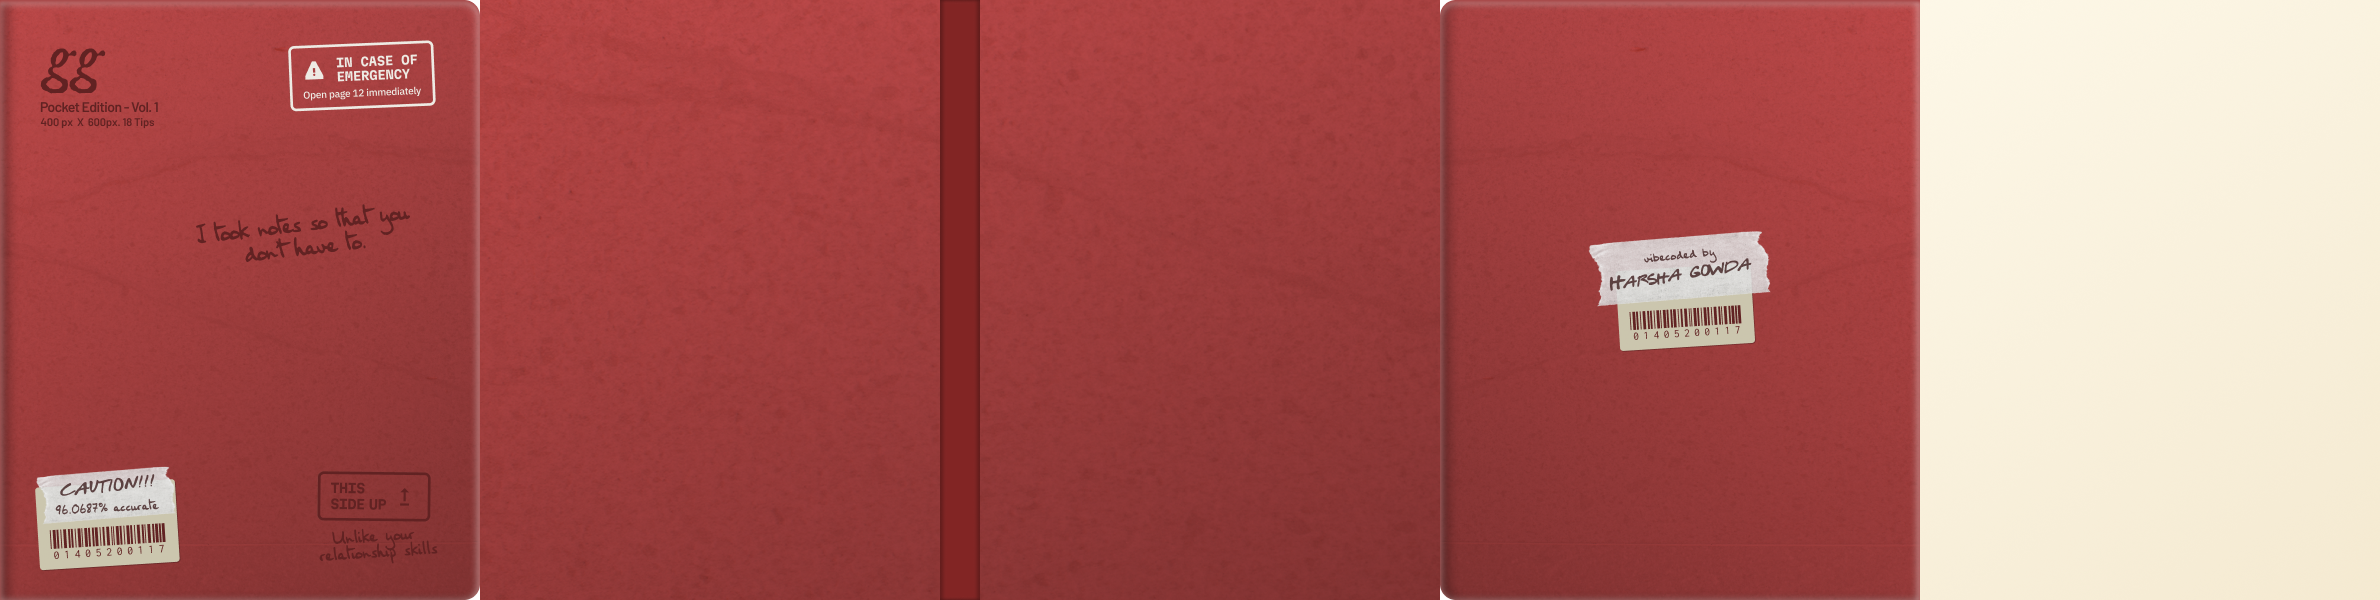
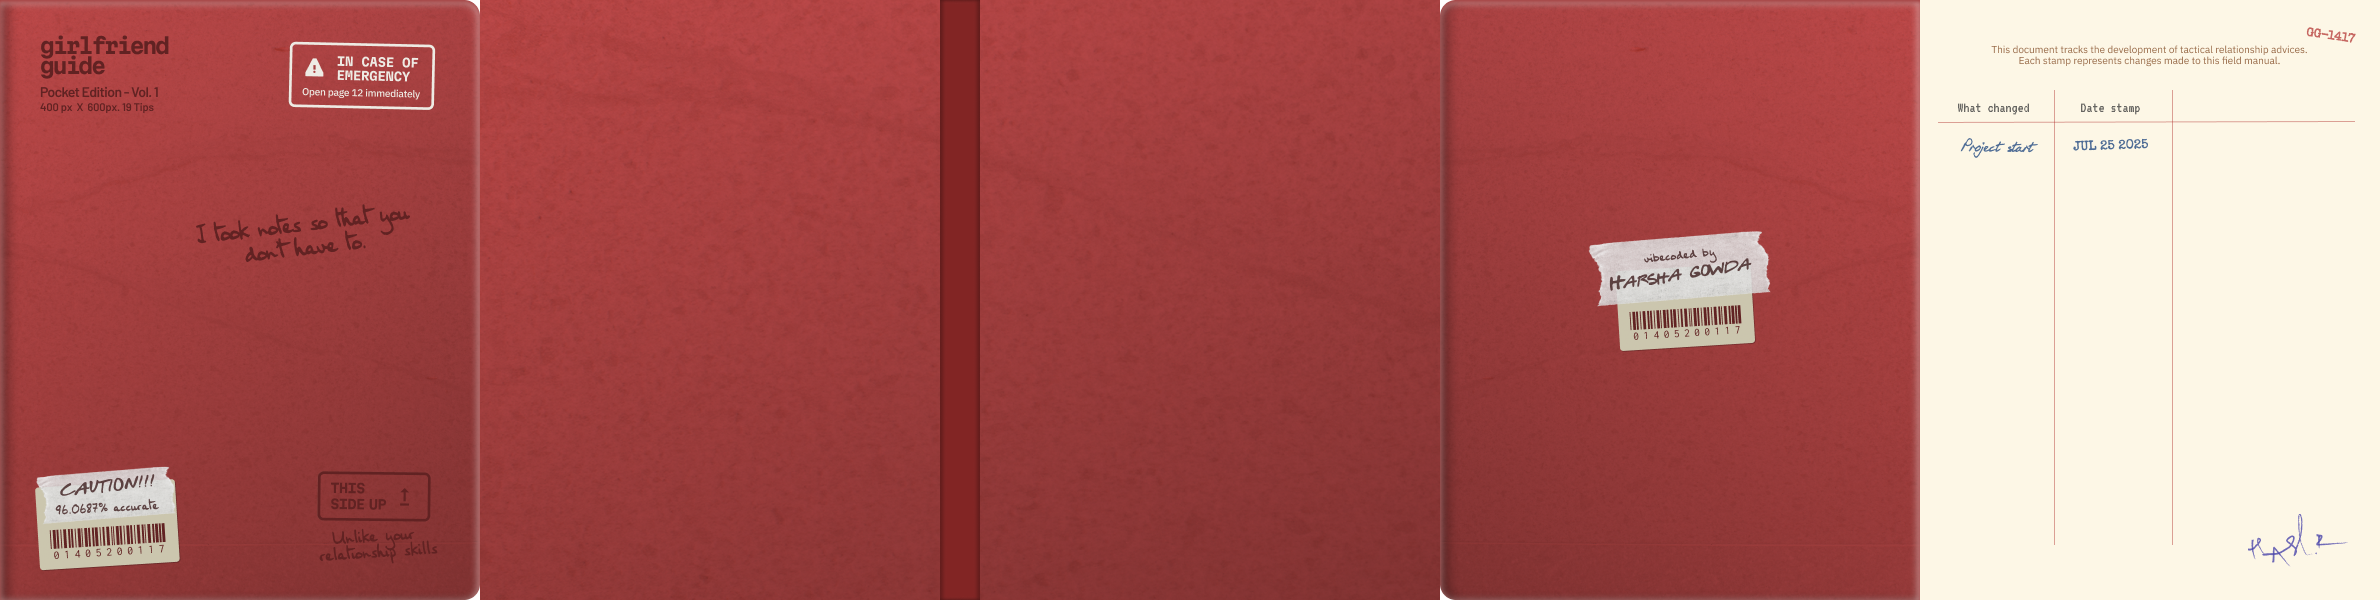
Completed 97%

diff --git a/samples/girlfriend-guide/pages/page33.html b/samples/girlfriend-guide/pages/page33.html
@@ -1,0 +1,28 @@
+<div class="book-content" style="position: relative;">
+
+    
+    <div style="font-family: 'QEJohnWilliams', serif; font-size: 15px; color: #4A45AA; line-height: 1.4; text-align: left; margin-top: 10px; padding: 0 10px;">
+        <p style="margin-bottom: 20px;">
+            Whether you got caught at the Coldplay concert with another girl, or used her face cream on your feet, or called her best friend by your ex's name… whether you booked a boys' trip during her birthday week, asked if she's overreacting while she's PMSing, or brought up her 'funny voice' mid-fight <br>
+        I got you, bro. I've prepared a checklist you're going to need very, very badly.
+        </p>
+        
+        <div style="margin: 30px 0;">
+            <div style="font-family: 'QEJohnWilliams', serif; font-size: 15px; color: #4A45AA; line-height: 1.4;">
+                <div style="margin-bottom: 4px;">☐ Book a one-way flight to a non-extradition country</div>
+                <div style="margin-bottom: 4px;">☐ Convert all assets to untraceable cryptocurrency</div>
+                <div style="margin-bottom: 4px;">☐ Pack light, move fast</div>
+                <div style="margin-bottom: 4px;">☐ Send mom one last voice note — she deserves to know you loved her</div>
+            </div>
+        </div>
+        
+        <div style="text-align: left; margin-top: 20px;">
+            <p style="font-family: 'QEJohnWilliams', serif; font-size: 14px; color: #4A45AA; margin-bottom: 10px;">
+                Good luck, soldier. <br>
+                It's been an honor serving you.
+            </p>
+        </div>
+    </div>
+</div>
+
+<span class="page-number" style="font-family: 'QEAntonyLark', serif; font-size: 20px; color: #807dba;">33</span>

diff --git a/samples/girlfriend-guide/pages/page31.html b/samples/girlfriend-guide/pages/page31.html
@@ -10,4 +10,4 @@
         <h2 style="font-family: 'QEGHHughes', serif; font-size: 54px; color: #4A45AA; margin-bottom: 20px; text-align: center; letter-spacing: -1px;">Emergency Protocol</h2>
     </div>
 </div>
-<span class="page-number" style="font-family: 'QEAntonyLark', serif;">30</span>
+<span class="page-number" style="font-family: 'QEAntonyLark', serif; font-size: 20px; color: #807dba;">31</span>

diff --git a/samples/girlfriend-guide/index.html b/samples/girlfriend-guide/index.html
@@ -172,6 +172,7 @@
     line-height: 1.4;
     max-width: 500px;
     margin: 0 auto;
+	margin-bottom: 40px;
     color: #4A45AA;
   }
 

diff --git a/samples/girlfriend-guide/pages/page30.html b/samples/girlfriend-guide/pages/page30.html
@@ -1,0 +1,1 @@
+<span class="page-number" style="font-family: 'QEAntonyLark', serif; font-size: 20px; color: #807dba;">30</span>

diff --git a/samples/girlfriend-guide/pages/page32.html b/samples/girlfriend-guide/pages/page32.html
@@ -1,0 +1,1 @@
+<span class="page-number" style="font-family: 'QEAntonyLark', serif; font-size: 20px; color: #807dba;">32</span>

diff --git a/samples/girlfriend-guide/pages/page34.html b/samples/girlfriend-guide/pages/page34.html
@@ -1,0 +1,1 @@
+<span class="page-number" style="font-family: 'QEAntonyLark', serif; font-size: 20px; color: #807dba;">34</span>

diff --git a/samples/girlfriend-guide/pages/page35.html b/samples/girlfriend-guide/pages/page35.html
@@ -1,0 +1,1 @@
+<span class="page-number" style="font-family: 'QEAntonyLark', serif; font-size: 20px; color: #807dba;">35</span>

diff --git a/samples/girlfriend-guide/pages/page36.html b/samples/girlfriend-guide/pages/page36.html
@@ -1,0 +1,1 @@
+<span class="page-number" style="font-family: 'QEAntonyLark', serif; font-size: 20px; color: #807dba;">36</span>

diff --git a/samples/girlfriend-guide/pages/page38.html b/samples/girlfriend-guide/pages/page38.html
@@ -1,0 +1,1 @@
+<span class="page-number" style="font-family: 'QEAntonyLark', serif; font-size: 20px; color: #807dba;">38</span>
